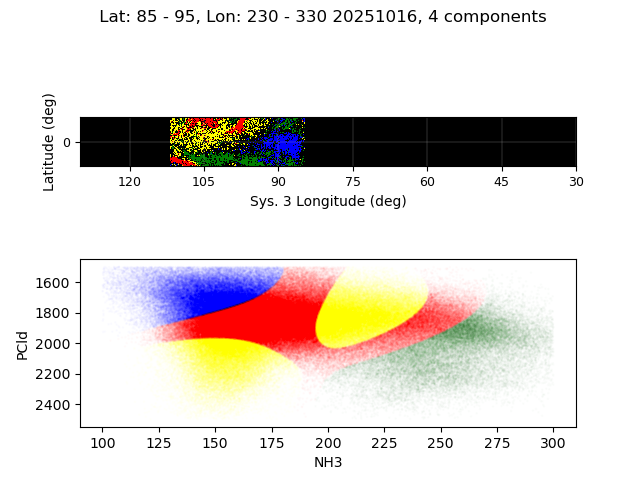
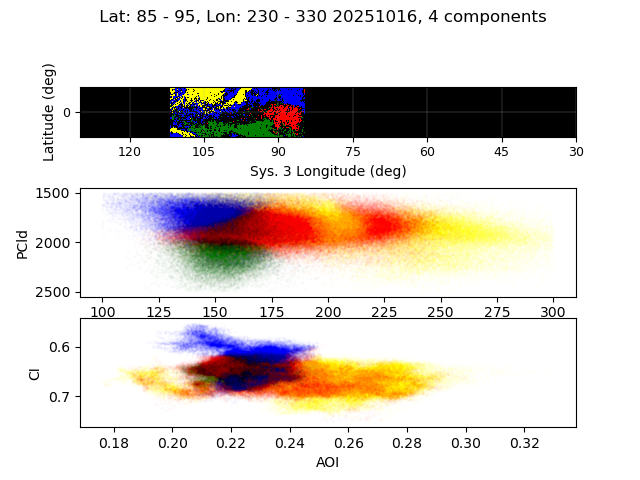
add indice plot for HST data and fix clustering to be on all keywords

diff --git a/scripts/processes.py b/scripts/processes.py
@@ -27,19 +27,36 @@ def output_cluster_map_and_plot(date, keywords, param_ranges,
 
     fig, axis = pl.subplots(2, 1)
     MP.create_cluster_map(axis[0], n_comp, pred, input_arr, subset_shape, latRng, lngRng, cmap, cm_num)
-    PL.create_cluster_plot(axis[1],  keywords, input_arr, pred,  n_comp, cov_type, latRng, lngRng, cmap, cm_num)
+    PL.create_cluster_plot(axis[1],  keywords, 0, 1, input_arr, pred,  n_comp, cov_type, latRng, lngRng, cmap, cm_num)
+    fig.suptitle(f' Lat: {latRng[0]} - {latRng[1]}, Lon: {lngRng[0]} - {lngRng[1]} {date}, {n_comp} components')
+    lat_lon_str = f'{latRng[0]}-{latRng[1]}_{lngRng[0]}-{lngRng[1]}'
+    fig.savefig(f'{config["output"]}/{date}_{lat_lon_str}_{n_comp}_map_and_plot.png')
+
+def output_cluster_map_and_plots(date, keywords, param_ranges, 
+                           latRng = [85, 95], lngRng = [230, 330], 
+                           n_comp = 4, cov_type = "full", cm_num = 3):
+    [input_arr, subset_shape] = pre.get_input_array(keywords, param_ranges, latRng, lngRng, cm_num)
+    pred = CL.create_clusters(input_arr[:, 0:len(keywords)], cov_type, n_comp, config["soft_clustering"])
+    colors =["red", "green", "blue", "yellow", "orange", "pink"]
+    cmap = ListedColormap(colors[:n_comp])
+
+
+    fig, axis = pl.subplots(3, 1)
+    MP.create_cluster_map(axis[0], n_comp, pred, input_arr, subset_shape, latRng, lngRng, cmap, cm_num)
+    PL.create_cluster_plot(axis[1],  keywords, 0, 1, input_arr, pred,  n_comp, cov_type, latRng, lngRng, cmap, cm_num)
+    PL.create_cluster_plot(axis[2],  keywords, 2, 3, input_arr, pred,  n_comp, cov_type, latRng, lngRng, cmap, cm_num)
+
     fig.suptitle(f' Lat: {latRng[0]} - {latRng[1]}, Lon: {lngRng[0]} - {lngRng[1]} {date}, {n_comp} components')
     lat_lon_str = f'{latRng[0]}-{latRng[1]}_{lngRng[0]}-{lngRng[1]}'
     fig.savefig(f'{config["output"]}/{date}_{lat_lon_str}_{n_comp}_map_and_plot.png')
 
 
-def output_cluster_and_plots
 
 def output_cluster_map(date, keywords, param_ranges, 
                            latRng = [65, 115], lngRng = [0, 50], 
                             n_comp = 4, cov_type = "full", cm_num = 3):
     [input_arr, subset_shape] = pre.get_input_array(keywords, param_ranges, latRng, lngRng, cm_num)
-    pred = CL.create_clusters(input_arr[:, [0,1]], cov_type, n_comp, config["soft_clustering"])
+    pred = CL.create_clusters(input_arr[:, 0:len(keywords)], cov_type, n_comp, config["soft_clustering"])
     sil_score = str(round(silhouette_score(input_arr, pred), 3))
     #colors = np.random.rand(n_comp, 3)
     colors =["red", "green", "blue", "yellow", "orange", "pink"]
@@ -57,14 +74,14 @@ def output_cluster_plot(date, keywords, param_ranges,
     
    
     [input_arr, subset_shape] = pre.get_input_array(keywords, param_ranges, latRng, lngRng, cm_num)
-    pred = CL.create_clusters(input_arr[:, [0,1]], cov_type, n_comp, config["soft_clustering"])
+    pred = CL.create_clusters(input_arr[:, 0: len(keywords)], cov_type, n_comp, config["soft_clustering"])
     print(pred)
     sil_score = str(round(silhouette_score(input_arr, pred), 3))
     #colors = np.random.rand(n_comp, 3)
     colors = ["red", "green", "blue", "yellow"]
     cmap = ListedColormap(colors[:n_comp])
     fig, axis = pl.subplots(1, 1)
-    PL.create_cluster_plot(axis, keywords, input_arr, pred,  n_comp, cov_type, latRng, lngRng, cmap, cm_num)
+    PL.create_cluster_plot(axis, keywords, 0, 1, input_arr, pred,  n_comp, cov_type, latRng, lngRng, cmap, cm_num)
     fig.suptitle(f' Lat: {latRng[0]} - {latRng[1]}, Lon: {lngRng[0]} - {lngRng[1]} {date}, {n_comp} components')
     lat_lon_str = f'{latRng[0]}-{latRng[1]}_{lngRng[0]}-{lngRng[1]}'
     fig.savefig(f'{config["output"]}/cluster_plots/clusters_{date}_{lat_lon_str}_{cov_type}_{n_comp}_.png')
@@ -77,7 +94,7 @@ def create_map_comparison(date, keywords, param_ranges,
                             n_comp = 4, cov_type = "full",  cm_num = 3):
     [input_arr, subset_shape] = pre.get_input_array(keywords, param_ranges, latRng, lngRng, cm_num)
     print("clustering...")
-    pred = CL.create_clusters(input_arr[:, [0,1]], cov_type, n_comp, config["soft_clustering"])
+    pred = CL.create_clusters(input_arr[:, 0:len(keywords)], cov_type, n_comp, config["soft_clustering"])
     print("finished")
     #sil_score = str(round(silhouette_score(input_arr, pred), 3))
     sil_score = "hello"
@@ -104,8 +121,8 @@ def create_map_comparison(date, keywords, param_ranges,
 
 #output_cluster_map("20251214", ["NH3", "PCld"], [[0, 300], [1000, 3000]], 5)
 #get correct filters
-#create_map_comparison("20251016", ["NH3", "PCld", "AOI", "CI"], [[100, 300], [1500,  2500], [0, 1], [0, 1]])#
-output_cluster_map_and_plot("20251016", ["NH3", "PCld", "AOI", "CI"], [[100, 300], [1500,  2500], [0, 1], [0, 1]], [85, 95], [230,330], 5)
+create_map_comparison("20251016", ["NH3", "PCld", "AOI", "CI"], [[100, 300], [1500,  2500], [0, 1], [0, 1]])#
+#output_cluster_map_and_plots("20251016", ["NH3", "PCld", "AOI", "CI"], [[100, 300], [1500,  2500], [0, 1], [0, 1]], [85, 95], [230,330], 4)
 
 
 #output_cluster_map_and_plot("20251214", ["NH3", "PCld"], [[0, 300], [1000, 3000]], 5)

diff --git a/scripts/plots/plots.py b/scripts/plots/plots.py
@@ -7,7 +7,7 @@ import numpy as np
 from scipy.stats import gaussian_kde
 
 
-def create_cluster_plot(ax, keywords, input_arr, pred, n_comp, cov_type, 
+def create_cluster_plot(ax, keywords, index_x, index_y, input_arr, pred, n_comp, cov_type, 
                         latRng, lngRng, cmap, cm_num = 3
                         ):
  
@@ -17,10 +17,11 @@ def create_cluster_plot(ax, keywords, input_arr, pred, n_comp, cov_type,
     ax.yaxis.set_inverted(True)
     ##xy = np.vstack(input_arr[:,0], input_arr[:, 1])
    # kde = gaussian_kde(xy)
-    ax.scatter(input_arr[:, 0], input_arr[:, 1],c = pred,s = 1, cmap = cmap, alpha = 0.01)
+    print("shape:" + str(input_arr.shape))
+    ax.scatter(input_arr[:, index_x], input_arr[:, index_y],c = pred,s = 1, cmap = cmap, alpha = 0.01)
     
-    ax.set_xlabel(keywords[0])
-    ax.set_ylabel(keywords[1])
+    ax.set_xlabel(keywords[index_x])
+    ax.set_ylabel(keywords[index_y])
     
     return 0
 
